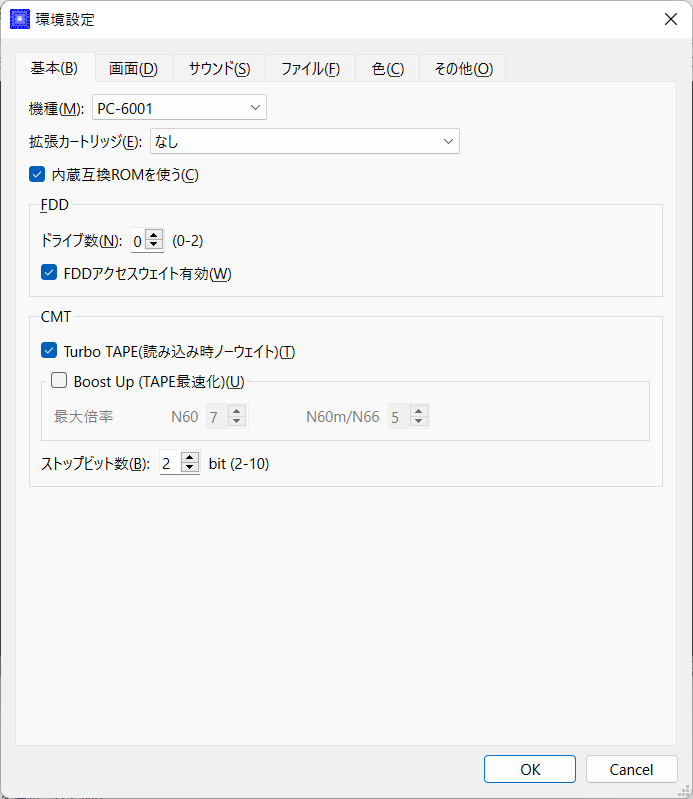
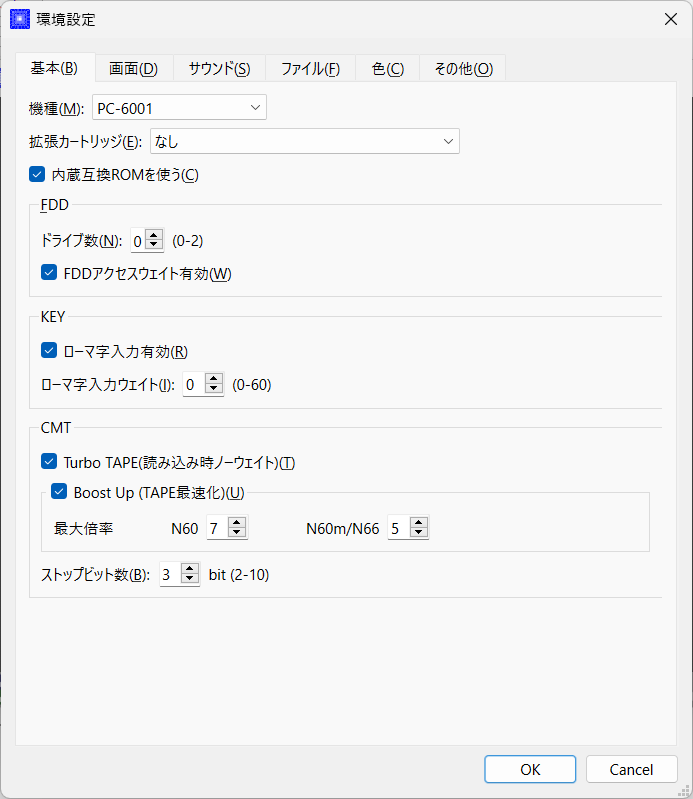
メニューの並びを変更、ローマ字入力関連の設定UIを追加

diff --git a/src/Qt/qtel6.cpp b/src/Qt/qtel6.cpp
@@ -138,6 +138,7 @@ void EL6::ExecMenu( int id )
 	case ID_AUTOTYPE:		UI_AutoType();							break;	// 打込み代行
 	case ID_QUIT:			UI_Quit();								break;	// 終了
 	case ID_NOWAIT:			UI_NoWait();							break;	// Wait有効無効変更
+	case ID_ROMAJI:			UI_Romaji();							break;	// ローマ字入力
 	case ID_TURBO:			UI_TurboTape();							break;	// Turbo TAPE
 	case ID_BOOST:			UI_BoostUp();							break;	// Boost Up
 	case ID_FULLSCRN:
@@ -280,6 +281,8 @@ void QtEL6::ShowPopupImpl(int x, int y)
 
 	QAction* pause = addCommand(systemMenu, tr("一時停止"), ID_PAUSE, true);
 	pause->setChecked(GetPauseEnable());
+	QAction* noWait = addCommand(systemMenu, tr("ウェイト無効"), ID_NOWAIT, true);
+	if (!sche->GetWaitEnable()) noWait->setChecked(true);
 	QMenu* speedMenu = systemMenu->addMenu(tr("速度調節"));
 	addCommand(speedMenu, tr("リセット"), ID_SPEEDRESET);
 	addCommand(speedMenu, tr("50%"), ID_SPEED50);
@@ -505,8 +508,10 @@ void QtEL6::ShowPopupImpl(int x, int y)
 		if (cfg->GetValue(CV_FrameSkip) == i) fps->setChecked(true);
 	}
 
-	QAction* noWait = addCommand(settingsMenu, tr("ウェイト無効"), ID_NOWAIT, true);
-	if (!sche->GetWaitEnable()) noWait->setChecked(true);
+	QAction* romajiInput = addCommand(settingsMenu, tr("ローマ字入力"), ID_ROMAJI, true);
+	if (cfg->GetValue(CB_Romaji)) romajiInput->setChecked(true);
+	settingsMenu->addSeparator();
+
 	QAction* turboTape = addCommand(settingsMenu, tr("Turbo TAPE"), ID_TURBO, true);
 	if (cfg->GetValue(CB_TurboTAPE)) turboTape->setChecked(true);
 	QAction* boostUp =  addCommand(settingsMenu, tr("Boost Up"), ID_BOOST, true);

diff --git a/src/Qt/configdialog.cpp b/src/Qt/configdialog.cpp
@@ -144,7 +144,13 @@ void ConfigDialog::readConfig()
 	// FDD数
 	ui->spinBoxNumFdd->setValue(config->GetValue(CV_FDDrive));
 	// FDDウェイト
-	ui->checkBoxFDDWaitEnable->setChecked(config->GetValue(CB_FDDWait));
+	ui->checkBoxFDDWait->setChecked(config->GetValue(CB_FDDWait));
+
+	//// KEY
+	// ローマ字入力有効
+	ui->checkBoxRomajiInput->setChecked(config->GetValue(CB_Romaji));
+	// ローマ字入力ウェイト
+	ui->spinBoxRomajiWait->setValue(config->GetValue(CV_RomajiWait));
 
 	//// CMT
 	// Turbo TAPE
@@ -407,7 +413,13 @@ void ConfigDialog::writeConfig()
 	// FDDドライブ数
 	config->SetValue(CV_FDDrive, ui->spinBoxNumFdd->value());
 	// FDDアクセスウェイト有効
-	config->SetValue(CB_FDDWait, ui->checkBoxFDDWaitEnable->isChecked());
+	config->SetValue(CB_FDDWait, ui->checkBoxFDDWait->isChecked());
+
+	//// KEY
+	// ローマ字入力有効
+	config->SetValue(CB_Romaji, ui->checkBoxRomajiInput->isChecked());
+	// ローマ字入力ウェイト
+	config->SetValue(CV_RomajiWait, ui->spinBoxRomajiWait->value());
 
 	//// CMT
 	// Turbo TAPE
